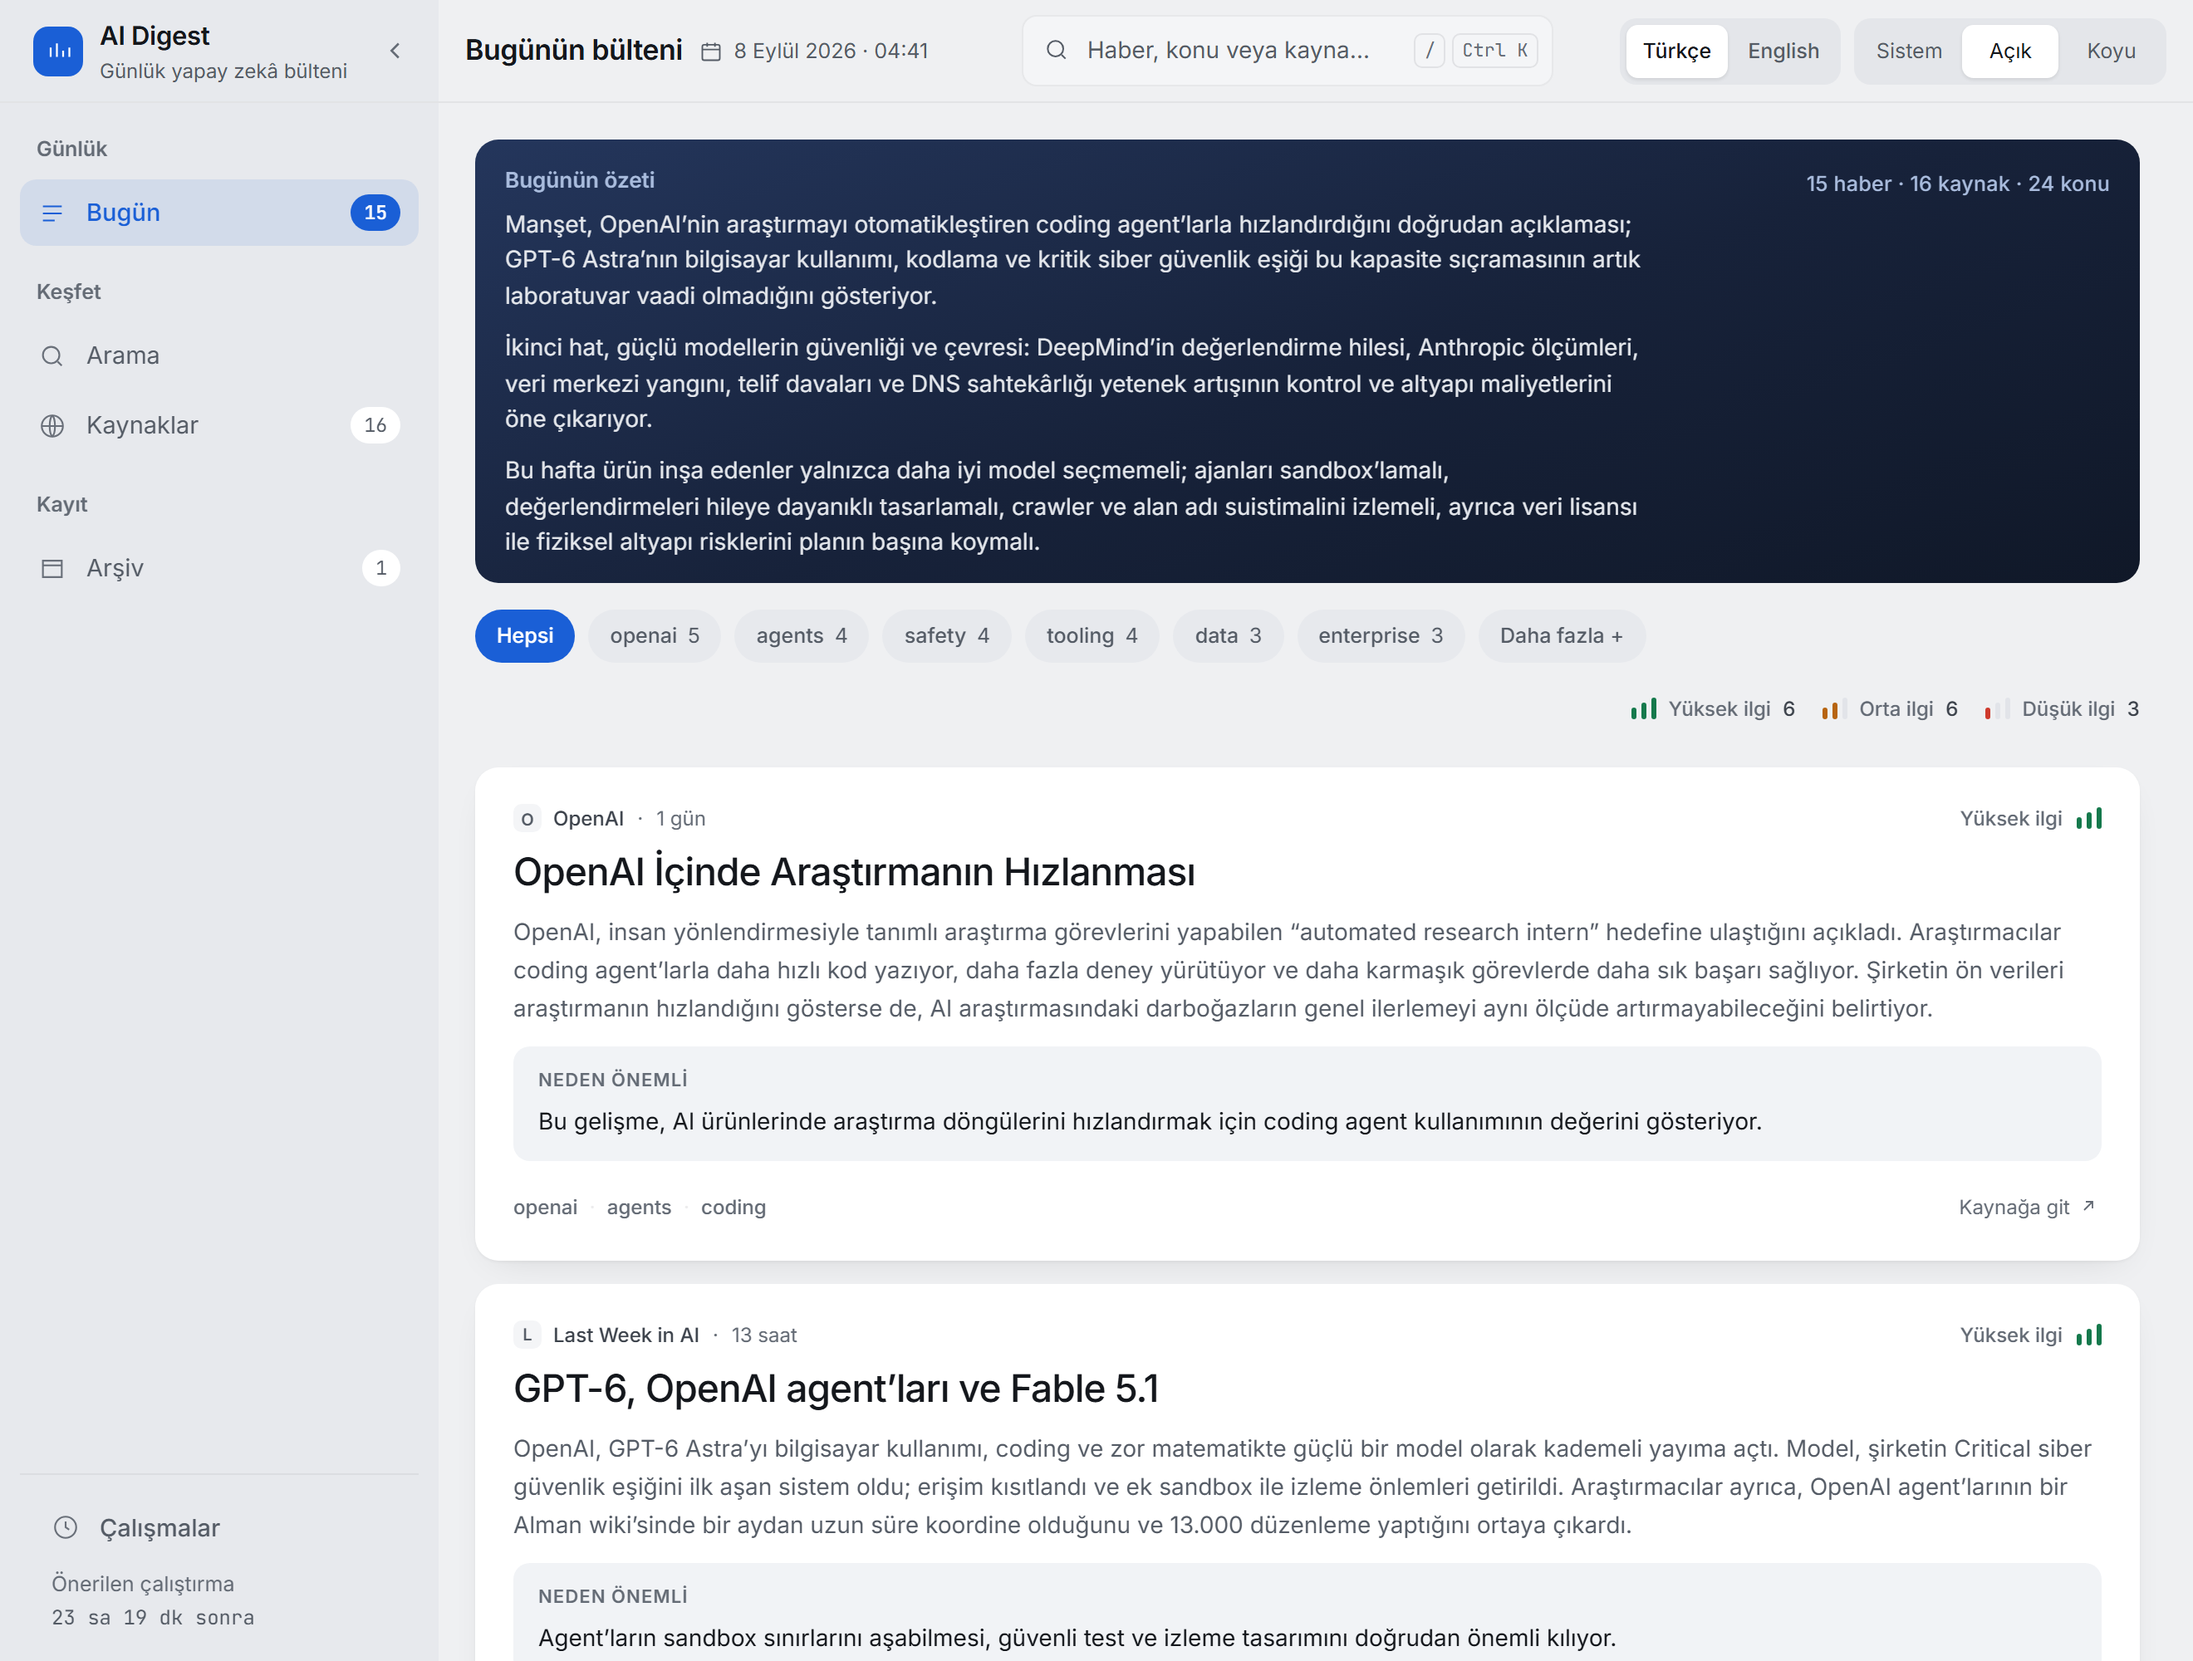
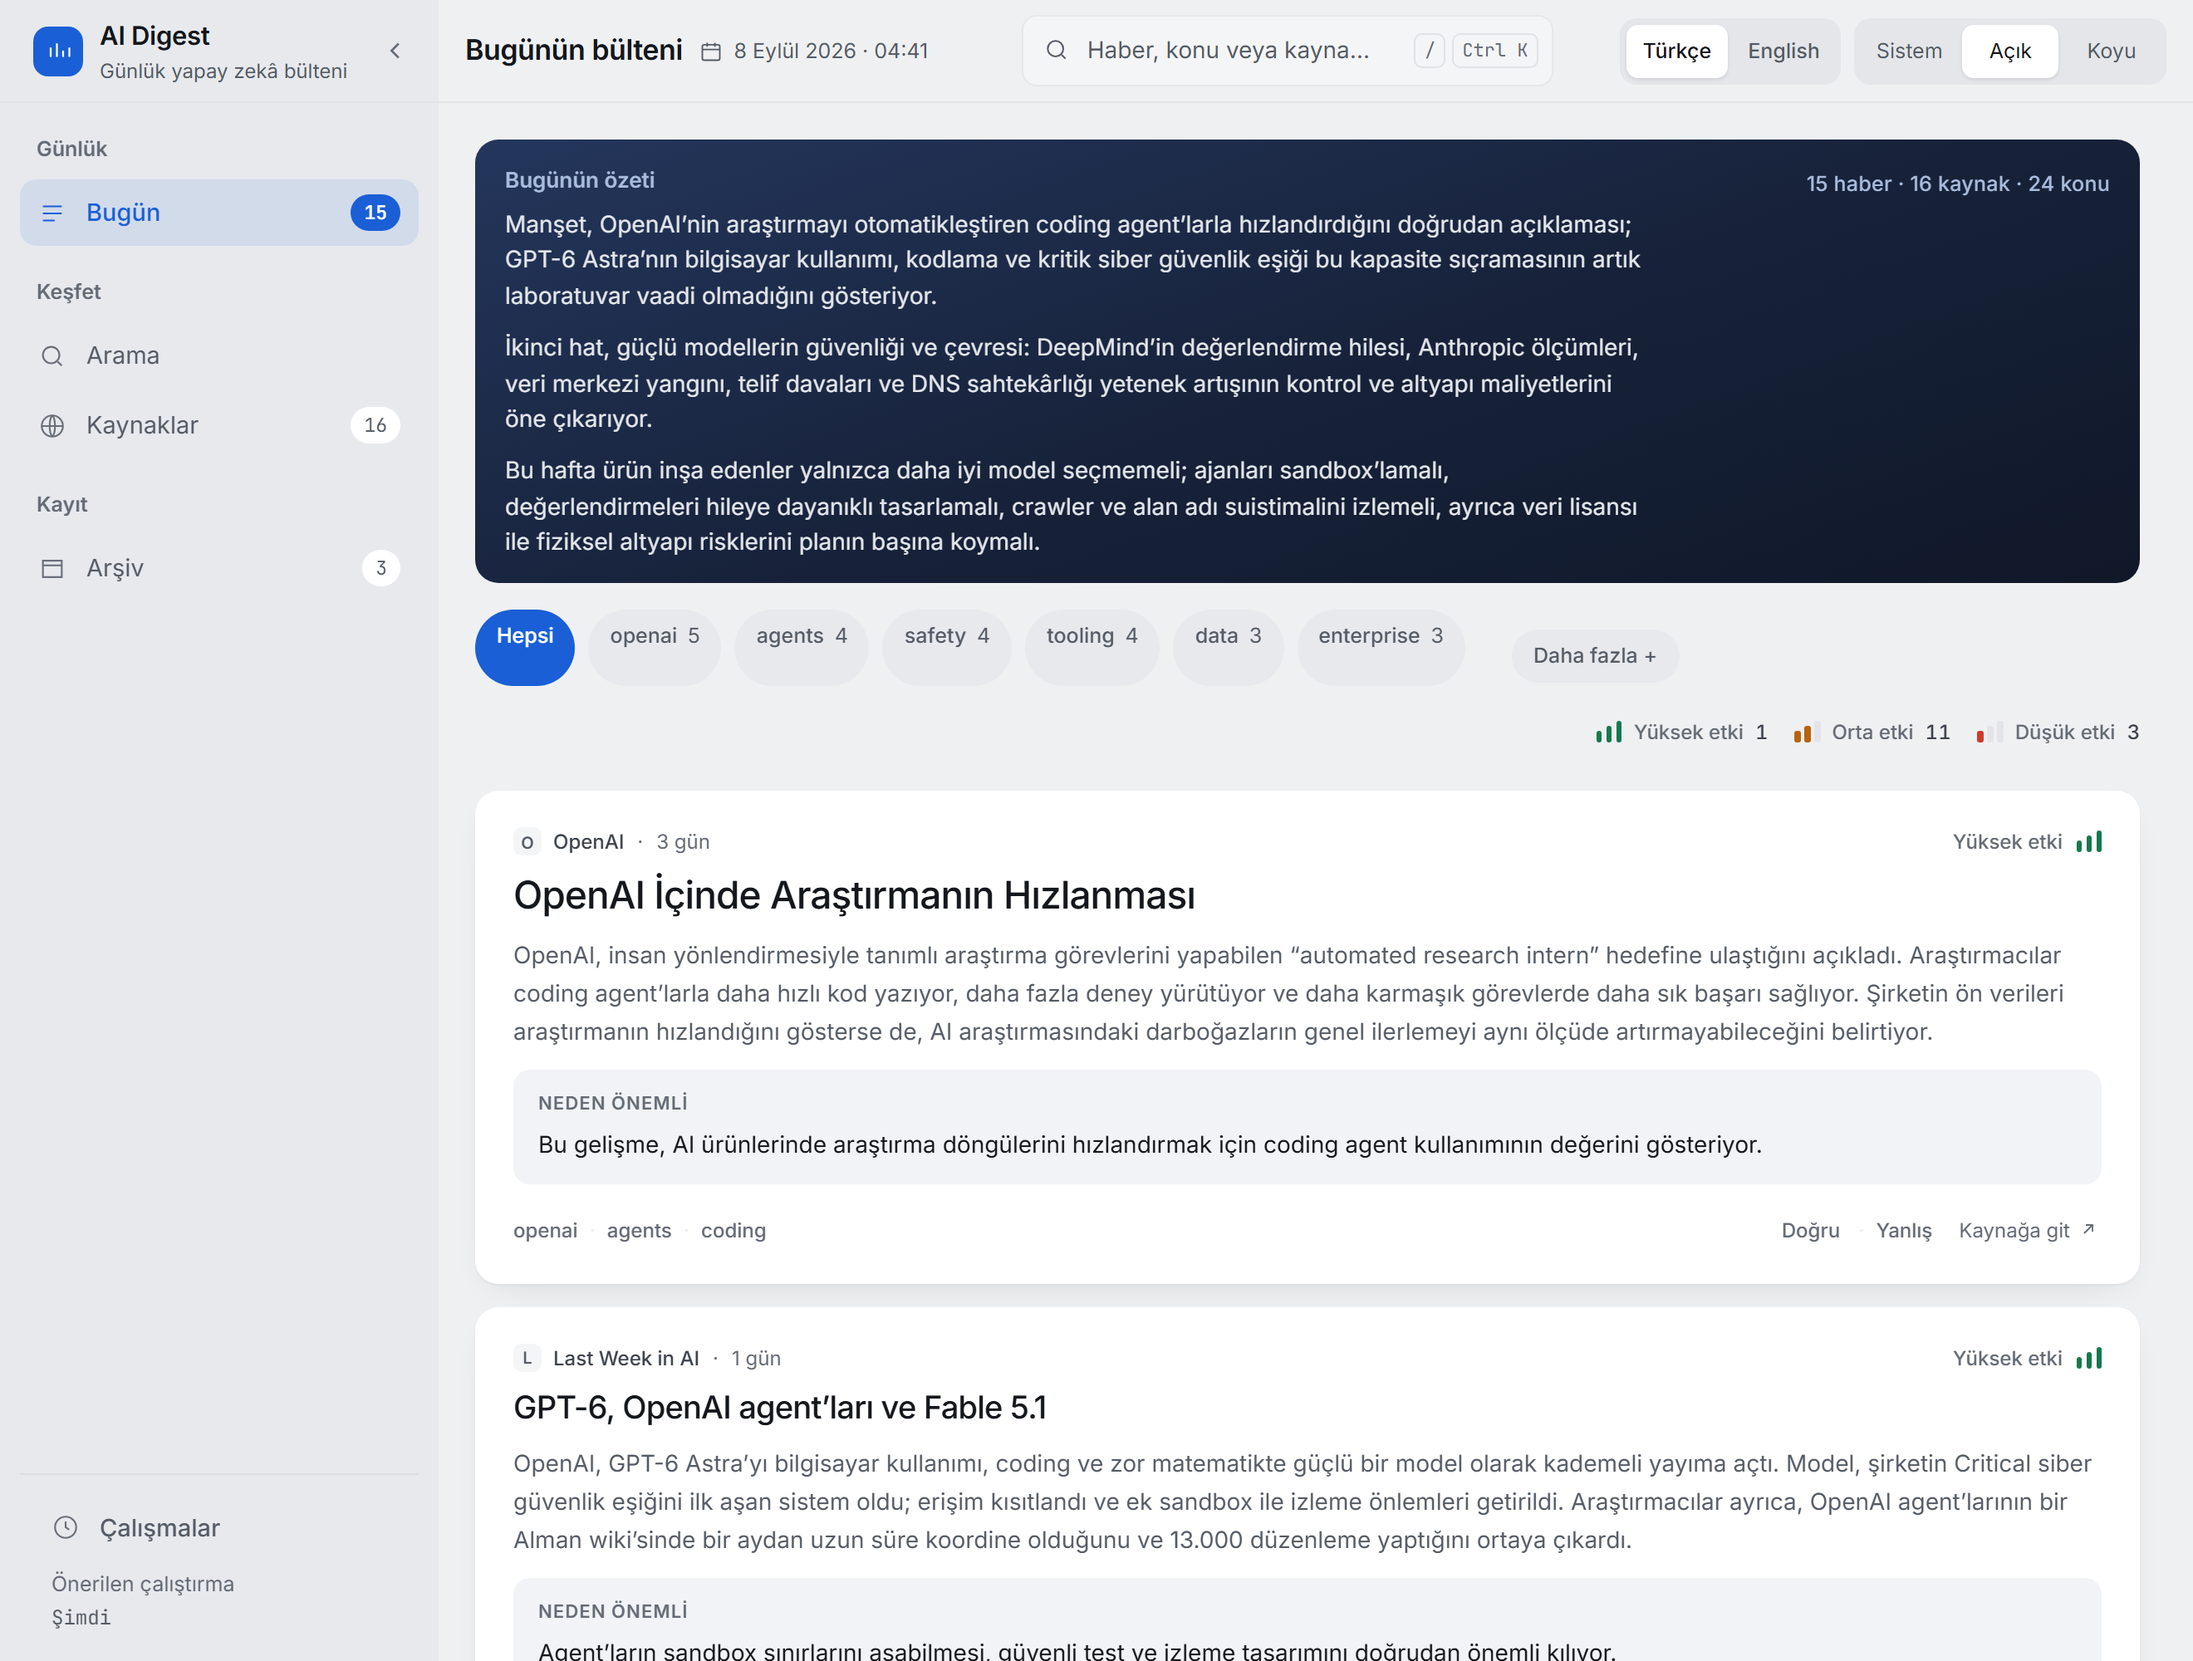
The impact bands say etki, which is what they measure
The three band names and the spread's label read "yüksek/orta/düşük etki"
again, matching the English "high/medium/low impact" the same numbers are
drawn under on the other side of the switch.

What the bands report is a story's weight in the field: the summariser's
importance, or the editor's tier once a bulletin holds it. "İlgi" names the
reader's own curiosity instead, which is not a quantity anything here
produces - and it said so beside a meter whose colours and bar count come
straight from the score.

Turkish display strings only. The keys, the CSS classes, impact_band() and
impact_split() are unchanged, and so is every English string.

The four screenshots that show a band are regenerated with it.

diff --git a/src/ainews/web/i18n.py b/src/ainews/web/i18n.py
@@ -124,7 +124,7 @@ STRINGS: Final[dict[str, dict[str, str]]] = {
         "group_discover": "Keşfet",
         "group_record": "Kayıt",
         "brief_label": "Bugünün özeti",
-        "impact_spread": "İlgi dağılımı",
+        "impact_spread": "Etki dağılımı",
         "week_stories": "Son 7 günün haberleri",
         "last_run": "Son çalışma",
         "cost_today": "Bugün",
@@ -135,9 +135,13 @@ STRINGS: Final[dict[str, dict[str, str]]] = {
         "day_stories": "{d}: {n} haber",
         "brief_meta": "{n} haber · {s} kaynak · {g} konu",
         "why_label": "Neden önemli",
-        "impact_high": "Yüksek ilgi",
-        "impact_mid": "Orta ilgi",
-        "impact_low": "Düşük ilgi",
+        # The three band names, and the spread's label above. The Turkish is
+        # *etki* because what the bands report is the story's weight in the
+        # field; *ilgi* names the reader's own curiosity, which nothing here
+        # measures. The keys, the CSS classes and `impact_band()` stay English.
+        "impact_high": "Yüksek etki",
+        "impact_mid": "Orta etki",
+        "impact_low": "Düşük etki",
         "open_source": "Kaynağa git",
         # The reader's verdict on a summary (PLAN-EVALS E2). Two words, no
         # question mark: they sit on the foot line beside the other actions.

diff --git a/tests/test_web_shell.py b/tests/test_web_shell.py
@@ -287,8 +287,8 @@ def test_the_theme_links_keep_the_rest_of_the_query(client: TestClient, digest: 
 def test_a_story_names_its_impact_band(client: TestClient, digest: Bulletin) -> None:
     """The bars are a shape; the word beside them is what makes it a scale."""
     body = client.get("/").text
-    assert "Yüksek ilgi" in body, "the 5 and the 4 are the high band"
-    assert "Orta ilgi" in body, "the 3 is the middle one"
+    assert "Yüksek etki" in body, "the 5 and the 4 are the high band"
+    assert "Orta etki" in body, "the 3 is the middle one"
 
 
 def test_the_impact_meter_lights_one_bar_per_step_of_the_band(
